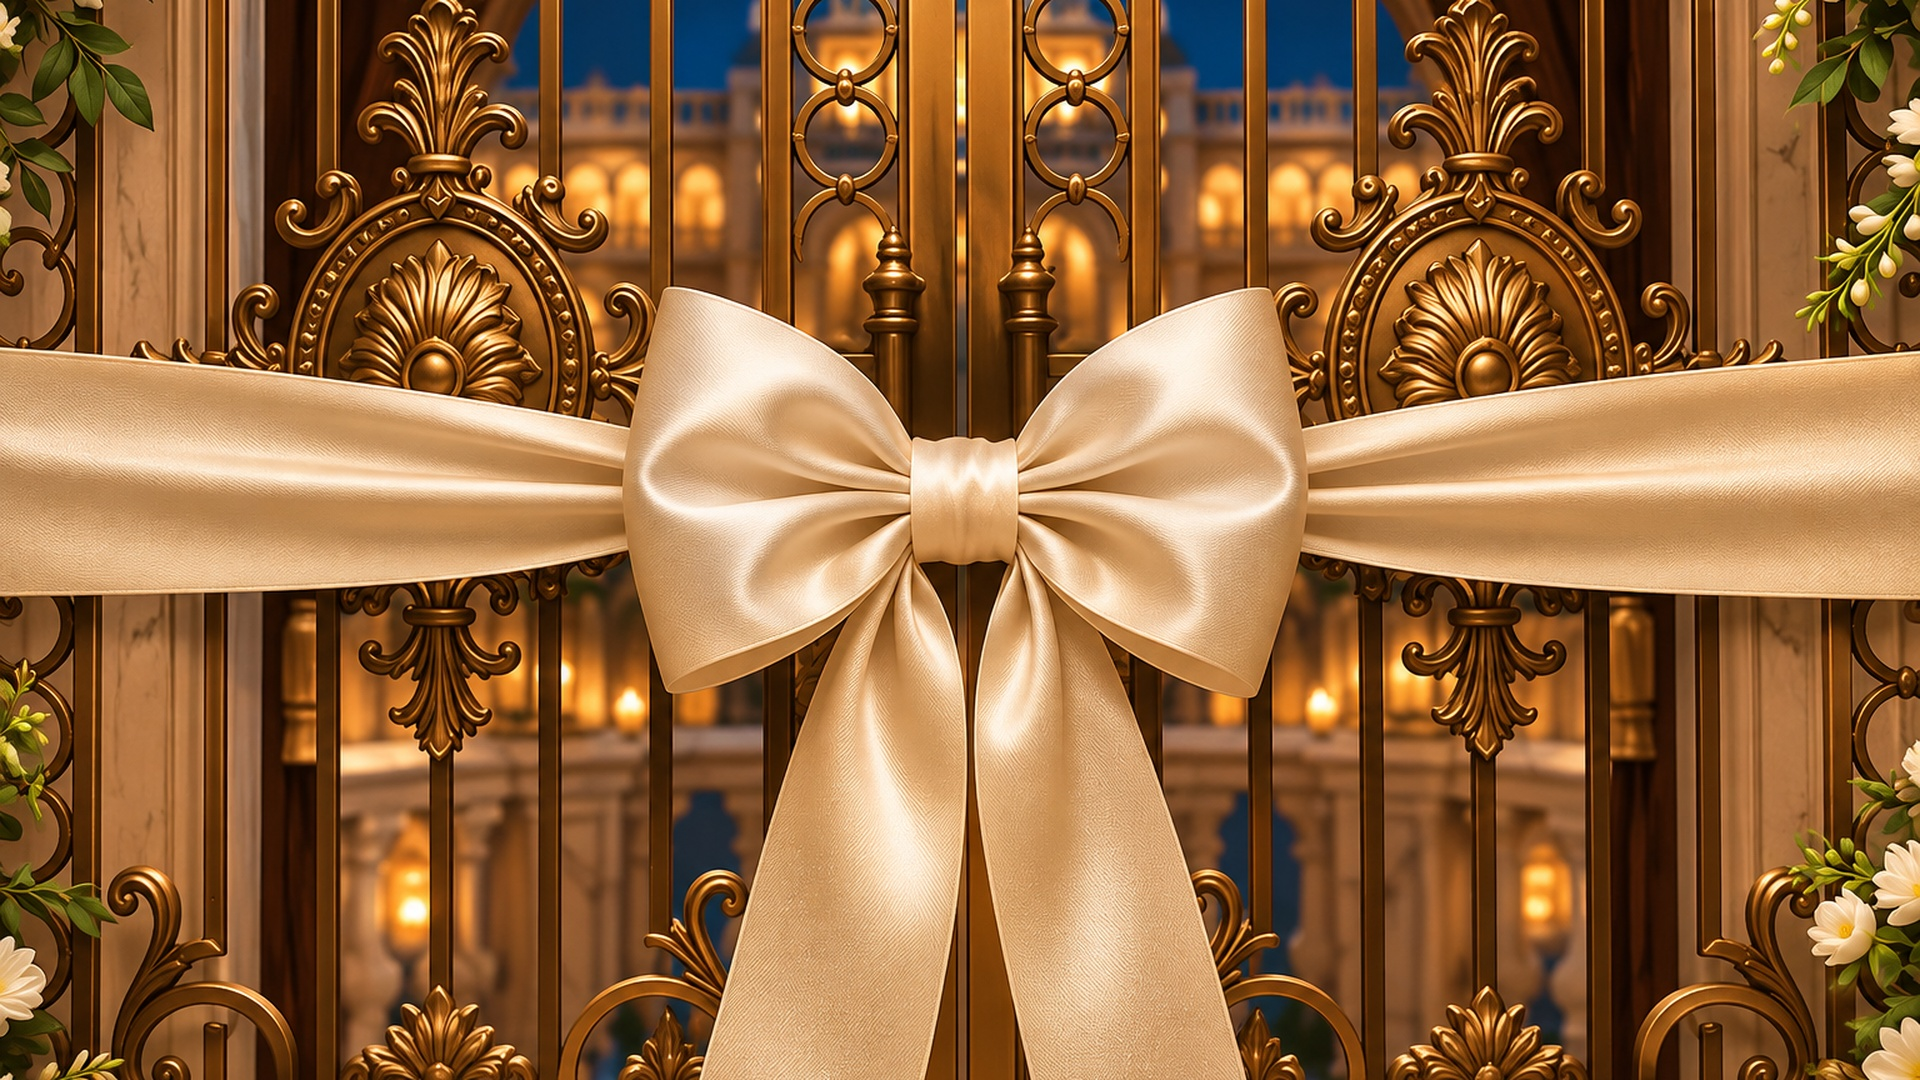
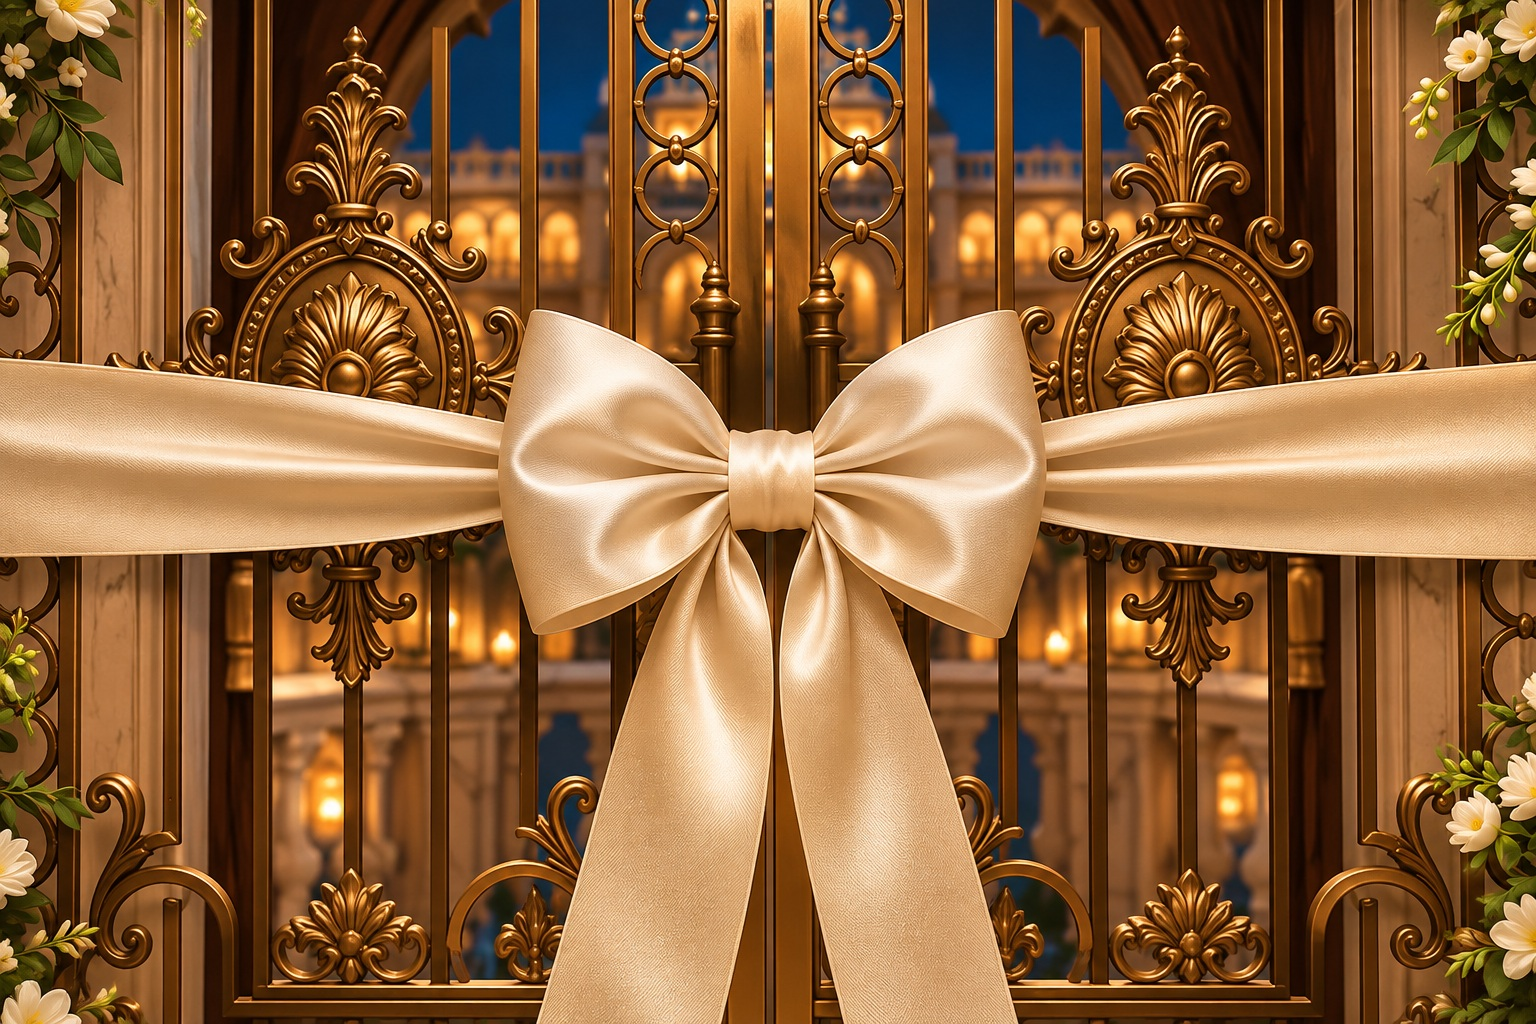
Add files via upload
changes

diff --git a/index.html b/index.html
@@ -567,6 +567,120 @@ body.entrance-locked { height:100vh !important; overflow:hidden !important; }
   .story-photo img { max-height:none !important; }
 }
 
+
+/* ===== Reference screenshot match: ShubhWeds Template 3 layout ===== */
+:root{--cream:#f8f2e6;--paper:#fffefa;--gold:#c99c19;--gold-soft:#ead9a9;--wine:#762436;--serif:"Cormorant Garamond",Georgia,serif;--script:"Great Vibes",cursive}
+html{scroll-padding-top:0}
+body{background:#f8f2e6;font-family:var(--serif);color:#554b45}
+.site-header{display:none!important}
+.progress{display:none!important}
+.back-top,.floating-share{display:none!important}
+#grandEntrance .entrance-backdrop{background-image:url("assets/ornate-gate-bow.jpg")!important;background-size:cover!important;background-position:center!important;filter:brightness(.60)!important}
+#grandEntrance .gate-panel{background-image:url("assets/ornate-gate-bow.jpg")!important;background-size:200% 100%!important}
+#grandEntrance .entrance-names{display:none!important}
+#grandEntrance .entrance-center{top:50%!important;width:min(600px,90vw)!important;padding:0!important}
+#grandEntrance .open-invitation{position:relative!important;display:inline-flex!important;flex-direction:column!important;align-items:center!important;gap:35px!important;margin:0!important;padding:0!important;border:0!important;background:transparent!important;font:400 clamp(20px,2vw,30px) var(--serif)!important;letter-spacing:5px!important;color:#fffaf0!important;text-shadow:0 2px 14px #000!important}
+#grandEntrance .open-invitation:after{content:"✥";display:grid;place-items:center;width:78px;height:78px;border-radius:50%;background:radial-gradient(circle at 35% 30%,#d75c55 0,#8f111e 54%,#4c0710 100%);border:3px double #e5b34b;box-shadow:0 4px 18px #0008,inset 0 0 0 5px rgba(255,205,112,.15);font-size:32px;color:#f3d38b;text-shadow:0 1px 2px #4d0710}
+#grandEntrance .entrance-center:before{content:"";position:absolute;z-index:-1;inset:-40px -60px;background:radial-gradient(ellipse,rgba(0,0,0,.22),transparent 70%)}
+.hero{min-height:100svh!important;height:100svh!important;padding:0!important;background:#161d22 url("assets/palace-hero.jpg") center center/cover no-repeat!important;display:grid!important;place-items:center!important;color:#fff!important;overflow:hidden}
+.hero:before{content:"";position:absolute;inset:0;background:linear-gradient(180deg,rgba(0,0,0,.22),rgba(0,0,0,.34) 52%,rgba(0,0,0,.38))!important}
+.hero:after{display:none!important}
+.hero-bow,.hero-kicker,.hero-copy,.hero-date,.hero-cta{display:none!important}
+.hero-content{z-index:2;padding:20px!important;width:100%!important}
+.hero h1{display:flex!important;flex-direction:column!important;align-items:center!important;gap:0!important;margin:0!important;font:400 clamp(68px,8vw,112px)/.86 var(--serif)!important;letter-spacing:-2px!important;color:#fff!important;text-shadow:0 3px 20px #0008}
+.hero-name{display:block!important}
+.hero-weds{display:block!important;margin:18px 0 22px!important;font:400 22px var(--serif)!important;letter-spacing:6px!important}
+.scroll-note{display:flex!important;position:absolute!important;bottom:70px!important;left:50%!important;transform:translateX(-50%)!important;flex-direction:column!important;gap:16px!important;color:#f3c900!important;font:600 20px var(--serif)!important;letter-spacing:2px!important;text-decoration:none!important;white-space:nowrap}
+.scroll-note:after{display:none!important}
+.scroll-note span{font-size:48px!important;line-height:.7!important;color:#fff!important;animation:scrollArrow 1.5s infinite ease-in-out}
+@keyframes scrollArrow{0%,100%{transform:translateY(0)}50%{transform:translateY(10px)}}
+.invitation-section{padding:42px 20px 76px!important;background:#f8f2e6!important}
+.invitation-paper{width:min(832px,100%)!important;max-width:832px!important;min-height:780px!important;margin:auto!important;padding:62px 45px 55px!important;background:#fff!important;border:1px solid #ead9aa!important;box-shadow:0 15px 42px rgba(90,65,30,.07)!important;text-align:center!important}
+.invitation-paper:before{inset:11px!important;border:1px solid #f0e3c5!important}
+.om-mark{font-size:42px!important;color:#c99c19!important;margin:0 0 24px!important}
+.invite-verse{font-size:18px!important;line-height:1.9!important;color:#655b56!important;margin:0 auto 24px!important}
+.invite-script{font:400 clamp(34px,4vw,47px) var(--script)!important;color:#762436!important;margin:18px 0 24px!important}
+.invite-copy{font:400 22px/1.9 var(--serif)!important;color:#5c534e!important;margin:0 auto 40px!important}
+.invite-names{font:400 clamp(58px,6vw,76px)/.95 var(--serif)!important;color:#762436!important;margin:12px 0!important}
+.invite-with{font:400 15px var(--serif)!important;letter-spacing:6px!important;color:#81766e!important;margin:28px 0!important}
+.invite-date{margin-top:36px!important;color:#c99c19!important;font:500 16px var(--serif)!important;letter-spacing:6px!important}
+.scratch-section{padding:76px 22px 92px!important;background:#faf5e9!important}
+.scratch-copy .section-title{font:400 clamp(34px,4vw,52px) var(--serif)!important;font-variant:small-caps!important;letter-spacing:2px!important;color:#762436!important}
+.countdown-section{padding:86px 22px 42px!important;background:#f8f2e6!important}
+.countdown-section>.container>.eyebrow{display:none!important}
+.countdown-section .section-title{font:400 clamp(44px,5vw,64px) var(--script)!important;color:#762436!important;margin:0 0 40px!important}
+.countdown-section .section-intro,.countdown-section .rule{display:none!important}
+.countdown{display:grid!important;grid-template-columns:repeat(4,minmax(110px,135px))!important;justify-content:center!important;gap:32px!important;max-width:760px!important;margin:0 auto!important}
+.time-card{padding:30px 8px 18px!important;min-height:135px!important;border-radius:9px!important;background:#fbf6ec!important;border:1px solid #eadbb8!important;box-shadow:0 12px 28px rgba(90,65,30,.05)!important}
+.time-number{font:400 54px/1 var(--serif)!important;color:#c99c19!important}
+.time-label{margin-top:17px!important;font:400 11px var(--serif)!important;letter-spacing:4px!important;color:#746a61!important}
+.story-section{padding:130px 22px 95px!important;background:#f8f2e6!important}
+.story-grid{display:grid!important;grid-template-columns:minmax(0,1fr) minmax(0,1.1fr)!important;gap:70px!important;align-items:center!important;max-width:1420px!important}
+.story-photo{height:560px!important;min-height:560px!important;position:relative!important;overflow:visible!important;padding:0!important;background:transparent!important;border:0!important;box-shadow:none!important;isolation:isolate!important}
+.story-photo:before,.story-photo:after{content:none!important;display:none!important}
+.story-photo img{position:absolute!important;display:block!important;object-fit:cover!important;border:1px solid #ead9aa!important;background:#fff!important;padding:8px!important;box-shadow:0 10px 30px rgba(90,65,30,.10)!important}
+.story-photo .story-layer{width:78%!important;height:78%!important;top:11%!important;opacity:.78!important;z-index:0!important}
+.story-photo .story-layer-left{left:0!important;transform:translateX(-2%)!important;object-position:center!important}
+.story-photo .story-layer-right{right:0!important;transform:translateX(2%)!important;object-position:center!important}
+.story-photo .story-main-photo{z-index:2!important;width:66%!important;height:90%!important;left:17%!important;top:5%!important;object-fit:cover!important;object-position:center!important}
+.story-panel{padding:0!important;background:transparent!important}
+.story-panel .eyebrow{display:none!important}
+.story-panel .section-title{font:400 clamp(48px,5vw,68px) var(--script)!important;color:#762436!important;margin:0 0 34px!important}
+.story-panel .rule{display:none!important}
+.story-panel p{font:400 17px/1.95 var(--serif)!important;color:#514943!important;margin:0 0 22px!important}
+.story-panel .signature{font:400 36px var(--script)!important;color:#762436!important;margin-top:22px!important}
+.events-section{padding:90px 22px!important;background:#f8f2e6!important}
+.events-section .section-heading{margin-bottom:48px!important}
+.events-section .section-heading .eyebrow{display:none!important}
+.events-section .section-title{font:400 clamp(48px,6vw,68px) var(--script)!important;color:#762436!important}
+.events-section .section-intro,.events-section .rule{display:none!important}
+.events-grid{display:grid!important;grid-template-columns:1fr!important;max-width:780px!important;gap:32px!important;margin:auto!important}
+.event-card{display:flex!important;flex-direction:column!important;overflow:hidden!important;padding:12px!important;background:#fffdf8!important;border:1px solid #ead9aa!important;border-radius:24px!important;box-shadow:0 12px 36px rgba(90,65,30,.08)!important;color:#514943!important}
+.event-content{order:0!important;padding:24px 18px 22px!important;text-align:center!important}
+.event-content .event-number{font:400 12px var(--serif)!important;letter-spacing:4px!important;color:#762436!important}
+.event-content h3{font:400 54px var(--script)!important;color:#c99c19!important;margin:12px 0!important}
+.event-content p{font:400 18px/1.7 var(--serif)!important;color:#776b63!important}
+.event-card img{position:static!important;order:1!important;width:100%!important;height:470px!important;object-fit:cover!important;object-position:center!important;border-radius:16px!important}
+.event-venue{order:2!important;text-align:center!important;padding:25px 16px 28px!important;background:transparent!important}
+.event-venue .venue-kicker{font:400 12px var(--serif)!important;letter-spacing:4px!important;color:#c99c19!important}
+.event-venue strong{display:block!important;font:400 33px var(--serif)!important;color:#c99c19!important;margin:10px 0!important}
+.event-venue span{font:400 18px/1.7 var(--serif)!important;color:#776b63!important}
+.events-note{font:16px var(--serif)!important;color:#776b63!important}
+.venue-section{padding:75px 22px 100px!important;background:#f8f2e6!important}
+.venue-section .section-heading .eyebrow,.venue-section .section-intro{display:none!important}
+.venue-section .section-title{font:400 58px var(--script)!important;color:#762436!important}
+.venue-layout{display:flex!important;flex-direction:column!important;max-width:780px!important;margin:auto!important;padding:12px!important;gap:0!important;background:#fbf6ec!important;border:1px solid #ead9aa!important;border-radius:24px!important;box-shadow:0 12px 36px rgba(90,65,30,.08)!important}
+.venue-photo{height:auto!important;min-height:0!important;width:100%!important;aspect-ratio:1.35/1!important;overflow:hidden!important;border-radius:16px!important}
+.venue-photo img{width:100%!important;height:100%!important;object-fit:cover!important}
+.venue-info{padding:26px 20px 30px!important;text-align:center!important}
+.venue-info>.eyebrow,.venue-info>.section-title{display:none!important}
+.venue-name{font:400 clamp(28px,4vw,40px) var(--serif)!important;letter-spacing:4px!important;text-transform:uppercase!important;color:#c99c19!important;margin:14px 0!important}
+.venue-info p{font:400 18px/1.8 var(--serif)!important;color:#776b63!important}
+.venue-info .button{display:inline-flex!important;border-radius:40px!important;background:transparent!important;border:1px solid #ead9aa!important;color:#c99c19!important;padding:14px 26px!important}
+.vinyl-player{z-index:120!important}
+@media(max-width:760px){
+ .hero{min-height:100svh!important;height:100svh!important}
+ .hero h1{font-size:clamp(62px,15vw,88px)!important}
+ .scroll-note{bottom:48px!important;font-size:15px!important}
+ .invitation-section{padding:22px 12px 56px!important}
+ .invitation-paper{min-height:0!important;padding:45px 22px 52px!important}
+ .invite-copy{font-size:18px!important}
+ .invite-verse{font-size:16px!important}
+ .countdown{grid-template-columns:repeat(2,minmax(110px,140px))!important;gap:14px!important}
+ .time-card{min-height:120px!important;padding:24px 6px 16px!important}
+ .time-number{font-size:48px!important}
+ .story-section{padding:70px 20px!important}
+ .story-grid{grid-template-columns:1fr!important;gap:48px!important}
+ .story-photo{height:440px!important;min-height:440px!important;width:min(460px,100%)!important;margin:0 auto!important}
+ .story-photo .story-main-photo{height:90%!important}
+ .story-panel{max-width:560px!important;margin:auto!important}
+ .story-panel .section-title{text-align:center!important}
+ .story-panel p{font-size:16px!important}
+ .event-card img{height:auto!important;aspect-ratio:1/1.15!important}
+ .venue-photo{aspect-ratio:1/1.1!important}
+}
+@media(prefers-reduced-motion:reduce){.scroll-note span{animation:none!important}}
+
 </style>
 </head>
 <body>
@@ -579,7 +693,7 @@ body.entrance-locked { height:100vh !important; overflow:hidden !important; }
   <div class="entrance-vignette"></div>
   <div class="entrance-center">
     <div class="entrance-overline" aria-hidden="true"></div>
-    <div class="entrance-names"><span>Aabha</span><small>WEDS</small><span>Jay</span></div>
+    <div class="entrance-names" aria-hidden="true"></div>
     <button class="open-invitation" id="openInvitation" type="button">TAP TO BEGIN</button>
   </div>
   <div class="entrance-corner">A & J <span>♥</span></div>
@@ -605,21 +719,18 @@ body.entrance-locked { height:100vh !important; overflow:hidden !important; }
 
 <main>
 <section class="hero" id="home">
-  <div class="hero-bow" aria-hidden="true"><span class="bow-knot"></span></div>
   <div class="hero-content">
-    <div class="kicker hero-kicker">Together with our families</div>
-    <h1>Aabha <span class="amp">&</span> Jay</h1>
-    <p class="hero-copy">Joyfully invite you to celebrate<br>the beginning of our forever.</p>
-    <div class="hero-date">12 · FEBRUARY · 2027</div>
+    <h1><span class="hero-name">Aabha</span><span class="hero-weds">WEDS</span><span class="hero-name">Jay</span></h1>
   </div>
+  <a class="scroll-note" href="#invitation">SCROLL DOWN <span aria-hidden="true">↓</span></a>
 </section>
 
 <section class="invitation-section" id="invitation">
   <div class="invitation-paper reveal">
     <div class="om-mark">ॐ</div>
-    <p class="invite-verse">With the blessings of our families<br>and the love of everyone dear to us</p>
+    <p class="invite-verse">वक्रतुण्ड महाकाय सूर्यकोटि समप्रभ।<br>निर्विघ्नं कुरु मे देव शुभ कार्येषु सर्वदा॥</p>
     <h2 class="invite-script">We Cordially Invite You</h2>
-    <p class="invite-copy">Together with our beloved families,<br>we request the pleasure of your presence<br>to celebrate the wedding of</p>
+    <p class="invite-copy">Together with our beloved families,<br>we request the honour of your gracious<br>presence to celebrate the wedding of</p>
     <div class="invite-names">Aabha</div>
     <div class="invite-with">WITH</div>
     <div class="invite-names">Jay</div>
@@ -665,15 +776,18 @@ body.entrance-locked { height:100vh !important; overflow:hidden !important; }
 
 <section class="section story-section" id="story">
   <div class="container story-grid">
-    <div class="story-photo reveal">
-      <img src="assets/story-couple-placeholder.jpg" alt="Aabha and Jay — our story photo">
+    <div class="story-photo reveal" aria-label="Wedding photo gallery">
+      <img class="story-layer story-layer-left" src="assets/haldi-placeholder.jpg" alt="A wedding celebration photograph">
+      <img class="story-layer story-layer-right" src="assets/wedding-placeholder.jpg" alt="A wedding ceremony photograph">
+      <img class="story-main-photo" src="assets/story-couple-placeholder.jpg" alt="Aabha and Jay — our story photo">
     </div>
     <div class="story-panel reveal">
       <div class="eyebrow">OUR STORY</div>
       <h2 class="section-title">Our Story</h2>
-      <div class="rule" style="justify-content:flex-start;margin-left:0"><span>✧</span></div>
-      <p>With the love and blessings of our families, we're stepping into a beautiful new chapter. We'd be honoured to have you beside us as we celebrate a day filled with joy, traditions and memories.</p>
-      <div class="signature">With love, Aabha & Jay</div>
+      <p>Our story did not begin with years of knowing each other. It began with two hearts finding each other at exactly the right time.</p>
+      <p>From the very beginning, we found comfort in the quiet moments, joy in the unexpected ones, and a shared love for the little things that make life beautiful.</p>
+      <p>As we begin this new chapter, we feel incredibly grateful to have found in each other a partner, a best friend, and an adventure companion.</p>
+      <p>We cannot wait to celebrate the beginning of our forever with the people who mean the most to us!</p>
     </div>
   </div>
 </section>
